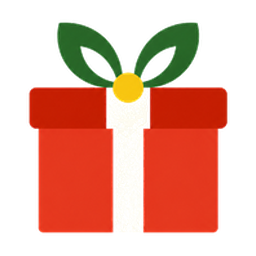
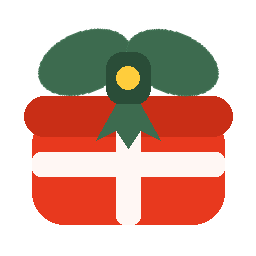
Fix corrupted header gift mark with clean SVG/PNG.
The old givy-mark.png had a noisy ribbon that looked broken at small
sizes on the landing header. Serve a clean SVG mark and regenerate the
PNG so the brand icon reads clearly.

diff --git a/src/components/Logo.tsx b/src/components/Logo.tsx
@@ -24,7 +24,7 @@ export function LogoMark({
   return (
     // eslint-disable-next-line @next/next/no-img-element -- exact brand raster
     <img
-      src="/givy-mark.png"
+      src="/givy-mark.svg"
       width={size}
       height={size}
       alt=""
